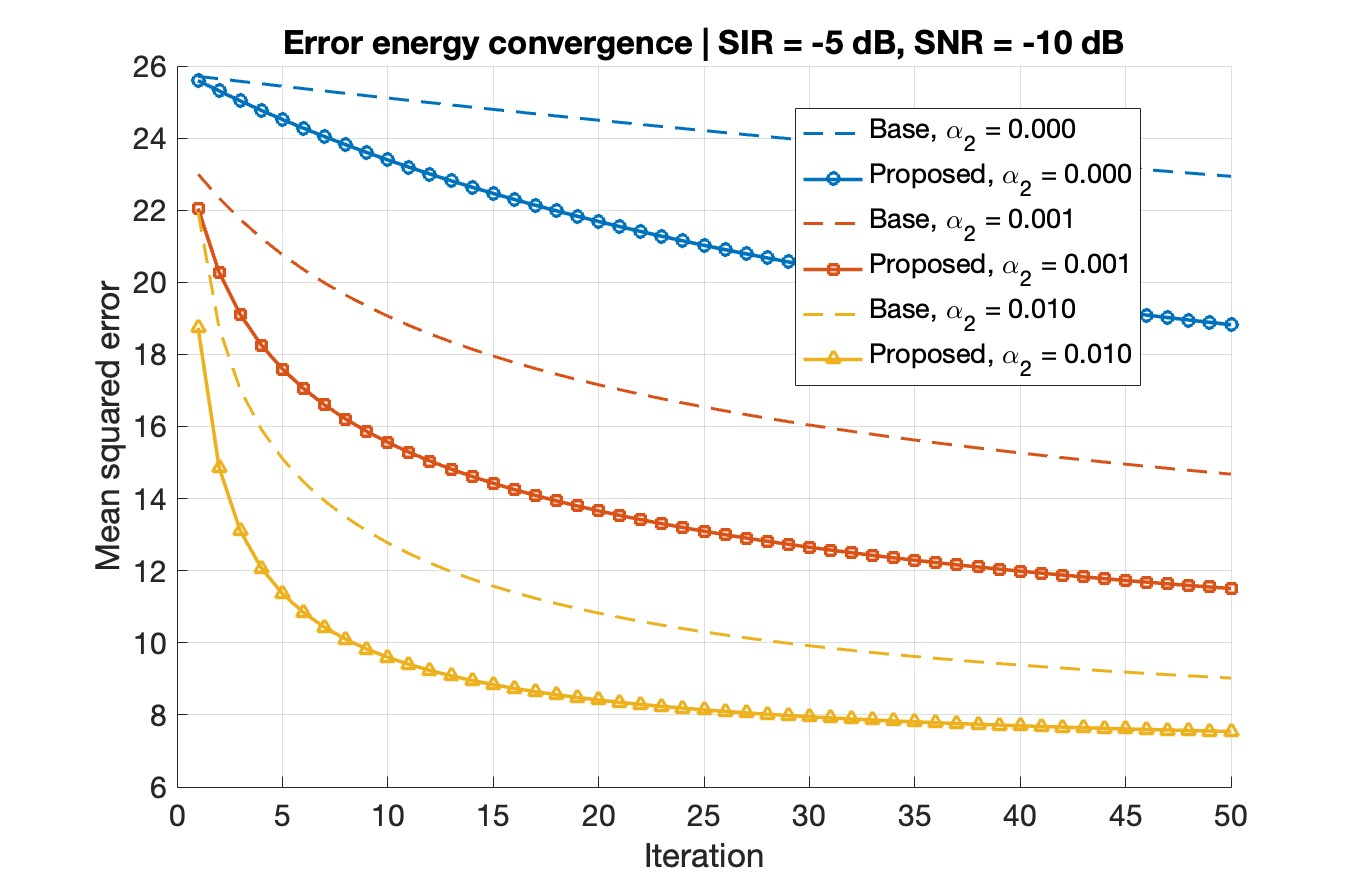
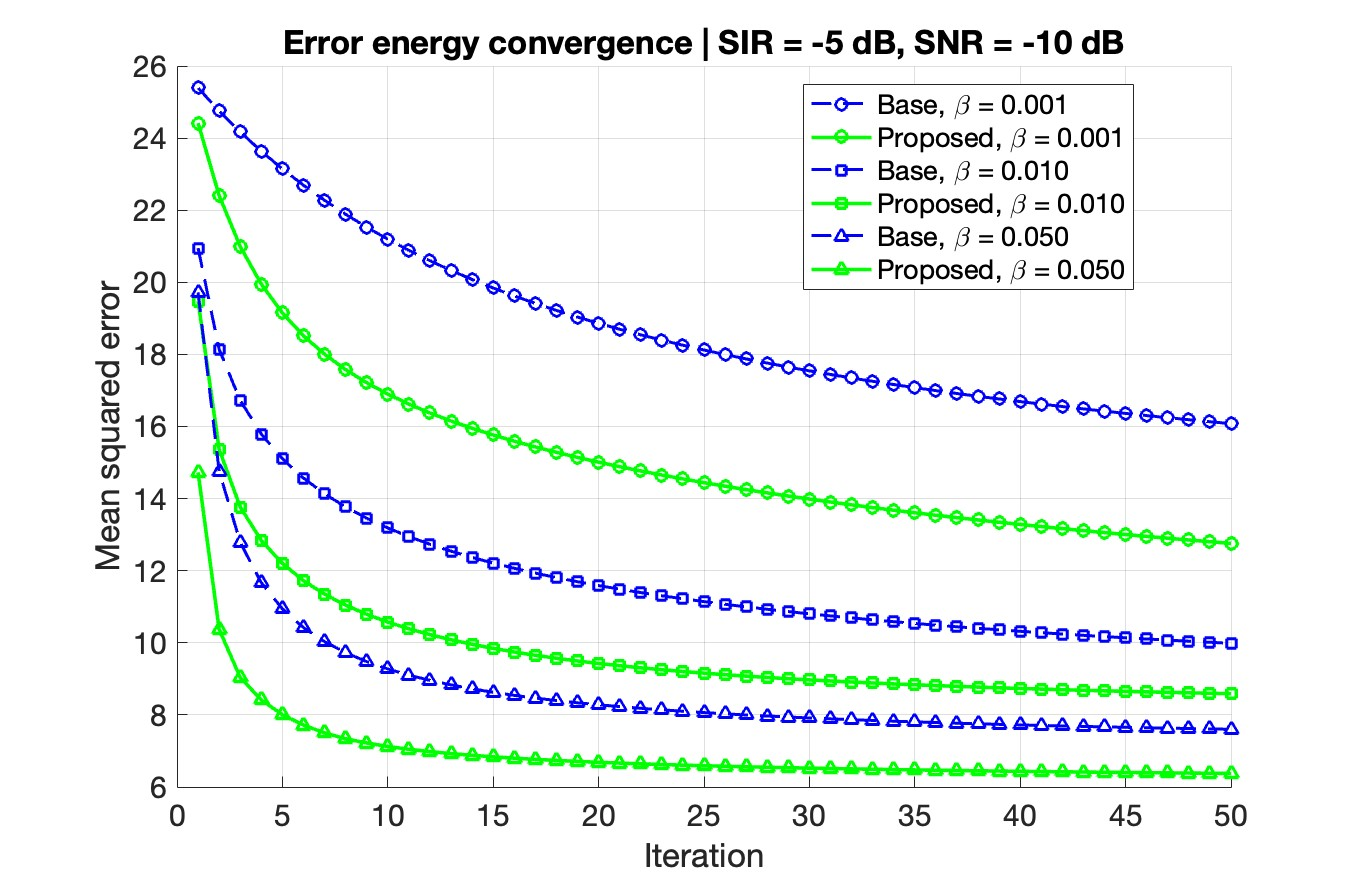
add covergent analysis

diff --git a/convergence.m b/convergence.m
@@ -121,8 +121,8 @@ Monte   = 5;               % at least 3–10 recommended
 ITER    = 50;              % number of full adaptation passes over data
 DUR     = 1024;            % number of output samples per pass (~0.15 s)
 
-alpha1  = 0.0001;            % step-size for upper path (if adapted – usually fixed)
-alpha2s = [0.0001, 0.001, 0.01];   % candidates for lower path
+alpha1  = 0.001;            % step-size for upper path (if adapted – usually fixed)
+alpha2s = [0.001, 0.01, 0.05];   % candidates for lower path
 
 SNR     = -10;             % dB
 SIR_vec = -5:10:-5;         % multiple SIR conditions to compare
@@ -296,17 +296,18 @@ for i_sir = 1:length(SIR_vec)
 
         % --- BASELINE (dashed) ---
         plot(it, avg_e2_base, '--', ...
-            'Color', colors(i_alpha,:), ...
+            'Color', 'b', ...
+            'Marker', markers{mod(i_alpha-1,length(markers))+1}, ...
             'LineWidth',1.5, ...
-            'DisplayName', sprintf('Base, \\alpha_2 = %.3f', alpha2s(i_alpha)));
+            'DisplayName', sprintf('Base, \\beta = %.3f', alpha2s(i_alpha)));
 
         % --- PROPOSED (solid + marker) ---
         plot(it, avg_e2_prop, '-', ...
-            'Color', colors(i_alpha,:), ...
+            'Color', 'g', ...
             'Marker', markers{mod(i_alpha-1,length(markers))+1}, ...
             'LineWidth',1.8, ...
             'MarkerSize',6, ...
-            'DisplayName', sprintf('Proposed, \\alpha_2 = %.3f', alpha2s(i_alpha)));
+            'DisplayName', sprintf('Proposed, \\beta = %.3f', alpha2s(i_alpha)));
     end
 
     grid on;
